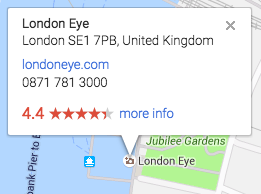
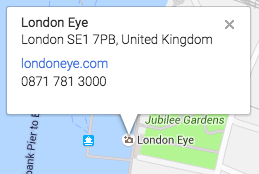
Hid google review in info window.

diff --git a/templates/map.html b/templates/map.html
@@ -22,7 +22,7 @@
 				<li id="languages-tab" class="tab">Languages</li>
 				<li id="about-tab" class="tab">About + FAQ</li>
 			</ul>
-			<input id="pac-input" class="controls landing" type="text" placeholder="Search Box">
+			<input id="pac-input" class="controls landing" type="text" placeholder="Search">
 		</div>
 		<div id="map-canvas" class="content"></div>
 

diff --git a/static/js/map.js b/static/js/map.js
@@ -98,8 +98,6 @@ var initializeMap = function() {
 				$("#places-content").text("Twitter Users' Opinion");
 				sentimentBar.setValue(response.average_sentiment);
 				sentimentBar.show();
-				// http://wbotelhos.com/raty
-				//TODO: display thumbsup vs thumbsdown (imgs already on server)
 			});
 		}
 	};

diff --git a/static/css/style.css b/static/css/style.css
@@ -263,3 +263,7 @@ img {
 #about-page p.q {
 	font-weight: 700;
 }
+
+.gm-rev {
+	display: none;
+}
